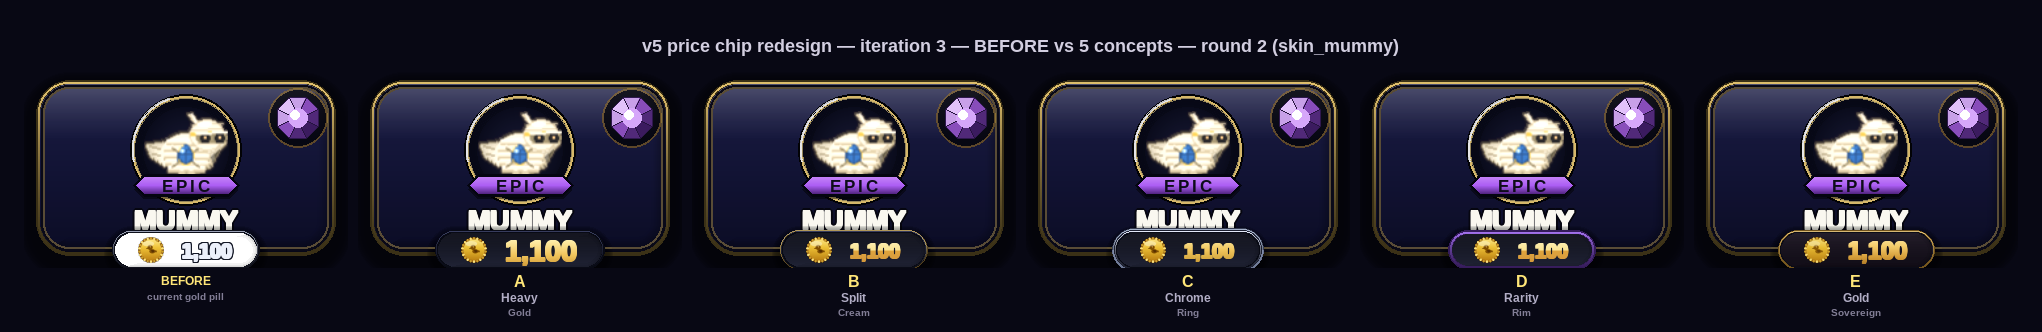
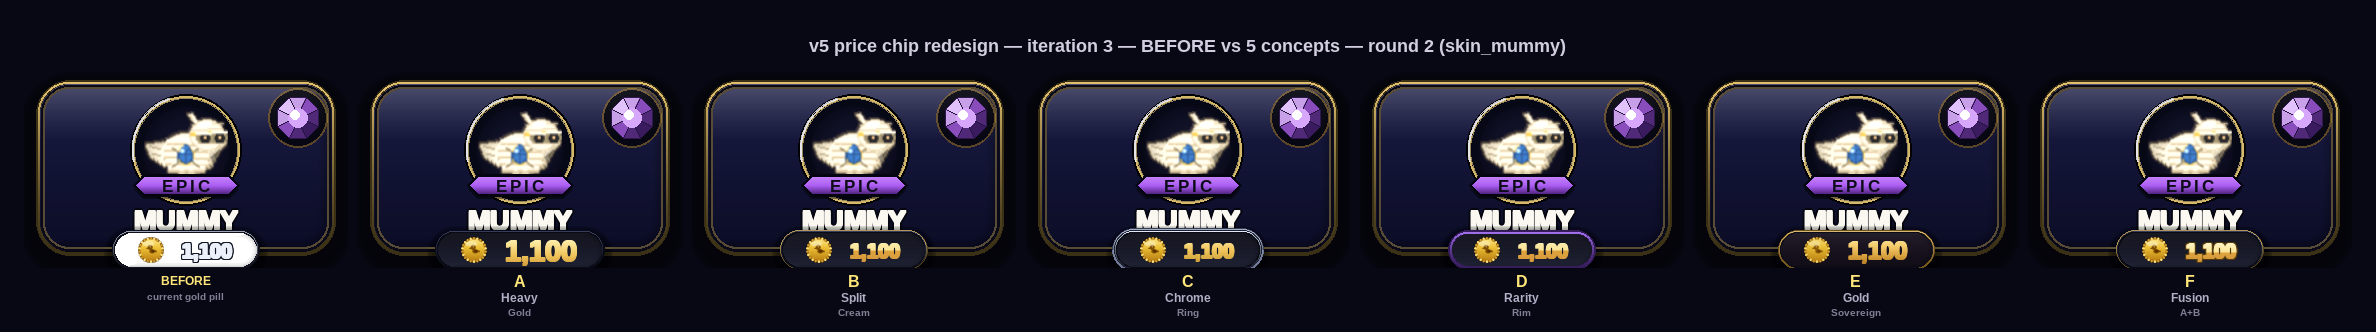
feat: fusion A+B price chip (cream-amber gradient, outlined digits, B keyline)

diff --git a/tools/_store_card_v5_price_chip_r3_fusion_r1.py b/tools/_store_card_v5_price_chip_r3_fusion_r1.py
@@ -1,0 +1,301 @@
+"""Fusion of concepts A + B: dark obsidian body, B's cream→amber gradient and
+chip keyline, B's default numeral size, plus a dark-amber outline ring around
+each digit glyph so each character reads as a struck letterform.
+
+Body:    A's obsidian (12,13,22)→(34,37,56) — same dark ground as both A & B
+Size:    B's h*0.50 default — smaller, fits neatly in the pill
+Colors:  B's 4-stop cream→amber with tight 0.48/0.52 seam
+Chip rim: B's thin warm keyline (bevel_rim w=1) on top of the standard bevel
+Digits:  new — dark warm-amber outline blit at 8 neighbour offsets before the
+         gradient fill, so each numeral has a visible perimeter that lifts it
+         off the dark body without adding any light to the chip surface.
+"""
+import os, sys
+os.environ.setdefault("SDL_VIDEODRIVER", "dummy")
+os.environ.setdefault("SDL_AUDIODRIVER", "dummy")
+sys.path.insert(0, os.path.join(os.path.dirname(__file__), ".."))
+import pygame
+pygame.init()
+pygame.display.set_mode((1, 1), pygame.NOFRAME)
+import game.store_cards as sc
+from game.hud import _font as hud_font
+
+SID = "skin_mummy"
+
+
+# ── corrected chip body (BLEND_ADD-safe gloss) ────────────────────────────────
+def _gloss_corrected(surf, rect, radius, peak):
+    """Premultiplied gloss: draws (a,a,a,255) so BLEND_ADD adds correct amount."""
+    sweep = pygame.Surface(rect.size, pygame.SRCALPHA)
+    h = max(1, rect.h)
+    for y in range(h):
+        a = int(peak * (1 - y / h) ** 2.4)
+        pygame.draw.line(sweep, (a, a, a, 255), (0, y), (rect.w, y))
+    sm = pygame.Surface(rect.size, pygame.SRCALPHA)
+    pygame.draw.rect(sm, (255, 255, 255, 255), sm.get_rect(), border_radius=radius)
+    sweep.blit(sm, (0, 0), special_flags=pygame.BLEND_RGBA_MIN)
+    surf.blit(sweep, rect.topleft, special_flags=pygame.BLEND_ADD)
+
+
+def dark_chip_body(surf, r, radius, stops, rim_dark, rim_bright_3tup,
+                   gloss=12, gamma=1.04):
+    """chip_body_stops replacement with corrected gloss. rim_bright_3tup = 3-tuple."""
+    sc.drop_shadow(surf, r, radius, blur=sc.m(4), alpha=110, dy=sc.m(2))
+    surf.blit(sc.vgrad_stops(r.w, r.h, radius, stops, 255, gamma=gamma), r.topleft)
+    _gloss_corrected(surf, r, radius, peak=gloss)
+    sc.contact_shadow(surf, r, radius, sc.m(3), alpha=80)
+    pygame.draw.rect(surf, rim_dark, r, width=max(1, sc.m(1.6)), border_radius=radius)
+    sc.bevel_rim(surf, r, radius, rim_dark, (*rim_bright_3tup, 235),
+                 w=max(1, sc.m(1.5)))
+
+
+# ── numeral constants ─────────────────────────────────────────────────────────
+# Gradient identical to B: tight cream→amber seam mapped to glyph bounding rect
+NUM_STOPS = [(0.0, (255, 244, 196)), (0.48, (250, 228, 148)),
+             (0.52, (224, 164, 62)),  (1.0, (210, 150, 60))]
+# Outline: dark warm amber — darker than numerals, slightly warmer than body;
+# creates a visible perimeter ring around each digit stroke.
+OUTLINE_COLOR = (85, 58, 14)
+
+
+def _draw_numerals(surf, nx, cy, text, f):
+    """Render gradient numerals with a dark-amber outline ring at each glyph."""
+    mask = sc._stamp_bold(sc._glyph_base(text, f, 0), sc.m(1.0))
+    bb = mask.get_bounding_rect()
+
+    # outline pass: tint mask dark amber, blit at 8 neighbour offsets so every
+    # edge pixel of every digit gets a contrasting perimeter — no additive light.
+    outline = mask.copy()
+    tint_s = pygame.Surface(mask.get_size(), pygame.SRCALPHA)
+    tint_s.fill((*OUTLINE_COLOR, 255))
+    outline.blit(tint_s, (0, 0), special_flags=pygame.BLEND_RGBA_MULT)
+    for ox, oy in [(-1, 0), (1, 0), (0, -1), (0, 1),
+                   (-1, -1), (1, -1), (-1, 1), (1, 1)]:
+        surf.blit(outline, outline.get_rect(center=(nx + ox, cy + oy)))
+
+    # gradient fill: mapped to the glyph bounding rect so the cream crown lands
+    # on the actual top stroke, not on the transparent padding above.
+    grad = sc.vgrad_stops(mask.get_width(), max(1, bb.height), 0,
+                          NUM_STOPS, 255, 1.0)
+    img = mask.copy()
+    img.blit(grad, (0, bb.top), special_flags=pygame.BLEND_RGBA_MULT)
+    surf.blit(img, img.get_rect(center=(nx, cy)))
+
+
+def price_chip_fusion(surf, cx, cy, text, h, affordable=True):
+    coin_d = int(h * 0.66)
+    pad = sc.m(13)
+    gapc = sc.m(8)
+    f = sc.font(h * 0.50 / sc.SS)                       # B's default size
+    nw = sc._glyph_base(text, f, 0).get_width() + sc.m(2)
+    w = pad + coin_d + gapc + nw + pad
+    rad = h // 2
+    r = pygame.Rect(cx - w // 2, cy - h // 2, w, h)
+
+    if affordable:
+        stops = [(0.0, (12, 13, 22)), (1.0, (34, 37, 56))]
+    else:
+        stops = [(0.0, (9, 10, 17)), (1.0, (24, 26, 40))]
+
+    dark_chip_body(surf, r, rad, stops, (8, 10, 20), (60, 65, 100),
+                   gloss=12, gamma=1.04)
+    # B's warm keyline over the standard bevel — thin struck edge on the pill rim
+    if affordable:
+        sc.bevel_rim(surf, r, rad, (120, 90, 30, 180), (255, 230, 150, 150), w=1)
+    else:
+        sc.bevel_rim(surf, r, rad, (120, 90, 30, 120), (255, 230, 150, 80), w=1)
+
+    ccx = r.x + pad + coin_d // 2
+    sc.coin_glyph(surf, ccx, cy, coin_d // 2)
+    if not affordable:
+        cr = coin_d // 2
+        tint = pygame.Surface((coin_d, coin_d), pygame.SRCALPHA)
+        pygame.draw.circle(tint, (70, 74, 84, 180), (cr, cr), cr)
+        surf.blit(tint, (ccx - cr, cy - cr))
+
+    nx = r.x + pad + coin_d + gapc + nw // 2
+    if affordable:
+        _draw_numerals(surf, nx, cy, text, f)
+    else:
+        sc.plain_text(surf, text, f, (nx, cy), color=(150, 140, 110),
+                      shadow_a=0, weight=sc.m(1.0))
+    return r
+
+
+def draw_card_with_chip(surf, sid, rect, equipped=False, secret=False,
+                        affordable=True):
+    """draw_card() verbatim, with state_chip() swapped for the fusion chip."""
+    m = sc.m
+    pal = sc.MYSTERY if secret else sc.RARITY[sc._rarity(sid)]
+    rad = m(sc.CARD_RAD)
+    sc.drop_shadow(surf, rect, rad, blur=m(8), alpha=160, dy=m(4))
+    surf.blit(sc.vgrad(rect.w, rect.h, rad, sc.CARD_T, sc.CARD_B, 252, gamma=1.15),
+              rect.topleft)
+    sc.top_sheen(surf, rect, rad, m(30), peak=62)
+    sc.contact_shadow(surf, rect, rad, m(9), alpha=120)
+    pygame.draw.rect(surf, (4, 5, 16), rect, width=max(1, m(2)), border_radius=rad)
+    sc.bevel_rim(surf, rect, rad, sc.CARD_RING_DEEP, (*sc.CARD_RING_BRIGHT, 235),
+                 w=max(1, m(2.0)))
+    tray = rect.inflate(-m(7), -m(7))
+    trad = rad - m(4)
+    pygame.draw.rect(surf, (10, 10, 24, 200), tray.inflate(m(2), m(2)),
+                     width=max(1, m(1)), border_radius=trad + m(1))
+    pygame.draw.rect(surf, (*sc.CARD_RING_BRIGHT, 90), tray, width=max(1, m(1)),
+                     border_radius=trad)
+    cx, cy = rect.centerx, rect.y + m(sc.CY_DISC) + sc._DOME_DY
+    sc.soft_glow(surf, cx, cy, sc._DOME_R + m(3), pal["glow"], 30, layers=8)
+    sc.cabochon(surf, cx, cy, sc._DOME_R, sc.CABO_LO, sc.CABO_HI,
+                ring=pal["gem"], ring_a=50)
+    if secret:
+        sc._draw_qmark(surf, cx, cy, sc._DOME_R + m(6), sc.CREAM, sc.NEAR_BLACK,
+                       thick=m(2))
+        name = "???"
+    else:
+        name = sc._name(sid)
+    sc.cabochon_glass(surf, cx, cy, sc._DOME_R, tint=pal["gem"])
+    if not secret:
+        sc.blit_thumb(surf, sid, cx, cy - sc._ITEM_DY, sc._BOX_PX)
+    sc.facet_gem(surf, rect.right - m(19), rect.y + m(19), m(sc.GEM_R + 3),
+                 pal["gem"], pal["deep"], mystery=secret)
+    tier_word = "MYSTERY" if secret else sc._rarity(sid).upper()
+    sc._ribbon_lozenge(surf, tier_word, cx, rect.y + m(55) - sc._RIBN_DY,
+                       rect.w - m(34), pal)
+    sc._name_on(surf, name, cx, rect.y + m(70), rect.w - m(26))
+    if equipped:
+        sc.status_chip(surf, cx, rect.y + m(88) - sc._CHIP_DY, "EQUIPPED", m(20),
+                       kind="equipped")
+        return None
+    price = f"{sc._cost(sid):,}"
+    return price_chip_fusion(surf, cx, rect.y + m(88) - sc._CHIP_DY, price,
+                             m(20), affordable=affordable)
+
+
+def chip_native(text, affordable):
+    h = sc.m(20)
+    pad = sc.m(6)
+    tmp = pygame.Surface((sc.m(400), h + pad * 2), pygame.SRCALPHA)
+    r = price_chip_fusion(tmp, sc.m(200), h // 2 + pad, text, h,
+                          affordable=affordable)
+    crop = pygame.Rect(r.x - pad, 0, r.w + pad * 2, h + pad * 2)
+    return tmp.subsurface(crop).copy()
+
+
+def zoom_chip(text, affordable, zoom=4):
+    sub = chip_native(text, affordable)
+    return pygame.transform.smoothscale(
+        sub, (sub.get_width() * zoom, sub.get_height() * zoom))
+
+
+def true1x_chip(text, affordable):
+    sub = chip_native(text, affordable)
+    w = max(1, round(sub.get_width() / sc.SS))
+    h = max(1, round(sub.get_height() / sc.SS))
+    return pygame.transform.smoothscale(sub, (w, h))
+
+
+def main():
+    label_lg = hud_font(22, True)
+    label_md = hud_font(16, True)
+    label_sm = hud_font(13, True)
+
+    cw, ch = sc.CARD_W * sc.SS, sc.CARD_H * sc.SS
+
+    def hero(affordable):
+        card = pygame.Surface((cw, ch), pygame.SRCALPHA)
+        rect = pygame.Rect(sc.m(sc._INSET), sc.m(sc._INSET),
+                           cw - 2 * sc.m(sc._INSET), ch - 2 * sc.m(sc._INSET))
+        r = draw_card_with_chip(card, SID, rect, equipped=False, secret=False,
+                                affordable=affordable)
+        # body-dark assertion: sample in the gap between coin and numerals
+        coin_d = int(sc.m(20) * 0.66)
+        bx = r.x + sc.m(13) + coin_d + sc.m(8) // 2
+        by = rect.y + sc.m(88) - sc._CHIP_DY
+        px = card.get_at((bx, by))
+        assert px[0] < 60 and px[1] < 60 and px[2] < 90, \
+            f"Body blown! {tuple(px[:3])}"
+        print(f"body ({'aff' if affordable else 'lock'}): {tuple(px[:3])}")
+        return card
+
+    card_yes = hero(True)
+    card_no = hero(False)
+
+    chip_yes = zoom_chip("1,100", True, zoom=4)
+    chip_no = zoom_chip("1,100", False, zoom=4)
+
+    t1_yes = true1x_chip("1,100", True)
+    t1_no = true1x_chip("1,100", False)
+
+    MARGIN = 20
+    HDR_H = 44
+    footer = 34
+    col_gap = 30
+    card_row_w = cw + col_gap + cw
+    W = card_row_w + MARGIN * 2
+
+    def text(surf, s, font_obj, center, col=(232, 236, 248)):
+        img = font_obj.render(s, True, col)
+        surf.blit(img, img.get_rect(center=center))
+
+    y_cards = HDR_H
+    y_striplbl = y_cards + ch + 26
+    y_strip = y_striplbl + 20
+    strip_h = max(chip_yes.get_height(), chip_no.get_height())
+    y_1xlbl = y_strip + strip_h + 24
+    y_1x = y_1xlbl + 20
+    t1_h = max(t1_yes.get_height(), t1_no.get_height())
+    H = y_1x + t1_h + footer
+
+    canvas = pygame.Surface((W, H))
+    canvas.fill((8, 8, 20))
+
+    text(canvas,
+         f"v5 price-chip r3 — fusion (A+B) r1 — {SID} EPIC — dark body / cream-amber / outlined digits",
+         label_lg, (W // 2, HDR_H // 2))
+
+    cx_yes = MARGIN
+    cx_no = MARGIN + cw + col_gap
+    canvas.blit(card_yes, (cx_yes, y_cards))
+    canvas.blit(card_no, (cx_no, y_cards))
+    text(canvas, "AFFORDABLE", label_sm, (cx_yes + cw // 2, y_cards + ch + 12),
+         (150, 214, 150))
+    text(canvas, "CAN'T AFFORD", label_sm, (cx_no + cw // 2, y_cards + ch + 12),
+         (214, 158, 158))
+
+    text(canvas, "4× DETAIL (on card-body gradient)", label_md,
+         (W // 2, y_striplbl), (150, 156, 178))
+    strip_w = chip_yes.get_width() + col_gap + chip_no.get_width()
+    sx = (W - strip_w) // 2
+    patch_pad = 18
+    patch = pygame.Rect(sx - patch_pad, y_strip - patch_pad // 2,
+                        strip_w + patch_pad * 2, strip_h + patch_pad)
+    canvas.blit(sc.vgrad(patch.w, patch.h, sc.m(sc.CARD_RAD), sc.CARD_T,
+                         sc.CARD_B, 255, gamma=1.15), patch.topleft)
+    pygame.draw.rect(canvas, (*sc.CARD_RING_BRIGHT, 90), patch,
+                     width=1, border_radius=sc.m(sc.CARD_RAD))
+    canvas.blit(chip_yes, (sx, y_strip))
+    canvas.blit(chip_no, (sx + chip_yes.get_width() + col_gap, y_strip))
+
+    text(canvas, "TRUE 1× (gameplay scale)", label_md, (W // 2, y_1xlbl),
+         (150, 156, 178))
+    t1_gap = 40
+    t1_w = t1_yes.get_width() + t1_gap + t1_no.get_width()
+    tx = (W - t1_w) // 2
+    canvas.blit(t1_yes, (tx, y_1x + (t1_h - t1_yes.get_height()) // 2))
+    canvas.blit(t1_no, (tx + t1_yes.get_width() + t1_gap,
+                        y_1x + (t1_h - t1_no.get_height()) // 2))
+
+    text(canvas,
+         "A body + B size/gradient/keyline + outlined digits (dark-amber ring per stroke)",
+         label_sm, (W // 2, H - footer // 2), (150, 156, 178))
+
+    out = os.path.join(os.path.dirname(__file__), "..",
+                       "docs", "store_card_v5_price_chip_r3",
+                       "fusion", "round_1.png")
+    out = os.path.abspath(out)
+    os.makedirs(os.path.dirname(out), exist_ok=True)
+    pygame.image.save(canvas, out)
+    print("wrote", out, canvas.get_size())
+
+
+if __name__ == "__main__":
+    main()

diff --git a/tools/_store_card_v5_price_chip_r3_showcase.py b/tools/_store_card_v5_price_chip_r3_showcase.py
@@ -42,16 +42,17 @@ def render_before():
 # (cx, cy) = top-left of the affordable hero card in that render sheet.
 # All r3 scripts use MARGIN=20, HDR_H=44, so the card starts at (20, 44).
 CONCEPTS = [
-    ("A", "Heavy\nGold",    "heavy-gold",    20, 44),
-    ("B", "Split\nCream",   "split-cream",   20, 44),
-    ("C", "Chrome\nRing",   "chrome-ring",   20, 44),
-    ("D", "Rarity\nRim",    "rarity-rim",    20, 44),
-    ("E", "Gold\nSovereign","gold-sovereign", 20, 44),
+    ("A", "Heavy\nGold",    "heavy-gold",    20, 44, "round_2.png"),
+    ("B", "Split\nCream",   "split-cream",   20, 44, "round_2.png"),
+    ("C", "Chrome\nRing",   "chrome-ring",   20, 44, "round_2.png"),
+    ("D", "Rarity\nRim",    "rarity-rim",    20, 44, "round_2.png"),
+    ("E", "Gold\nSovereign","gold-sovereign", 20, 44, "round_2.png"),
+    ("F", "Fusion\nA+B",    "fusion",        20, 44, "round_1.png"),
 ]
 
 
-def load_concept_panel(slug, cx, cy):
-    path = os.path.join(docs_dir, slug, "round_2.png")
+def load_concept_panel(slug, cx, cy, rnd="round_2.png"):
+    path = os.path.join(docs_dir, slug, rnd)
     img = pygame.image.load(path)
     crop = img.subsurface(pygame.Rect(cx, cy, CARD_W, CARD_H)).copy()
     return crop
@@ -95,9 +96,9 @@ canvas.blit(t2, (MARGIN + (CARD_W - t2.get_width()) // 2,
                  panel_y + CARD_H + 6 + t.get_height() + 2))
 
 # concept panels
-for col, (cid, label, slug, cx, cy) in enumerate(CONCEPTS, start=1):
+for col, (cid, label, slug, cx, cy, rnd) in enumerate(CONCEPTS, start=1):
     x = MARGIN + col * (CARD_W + GAP)
-    panel = load_concept_panel(slug, cx, cy)
+    panel = load_concept_panel(slug, cx, cy, rnd)
     canvas.blit(panel, (x, panel_y))
 
     ly = panel_y + CARD_H + 4
